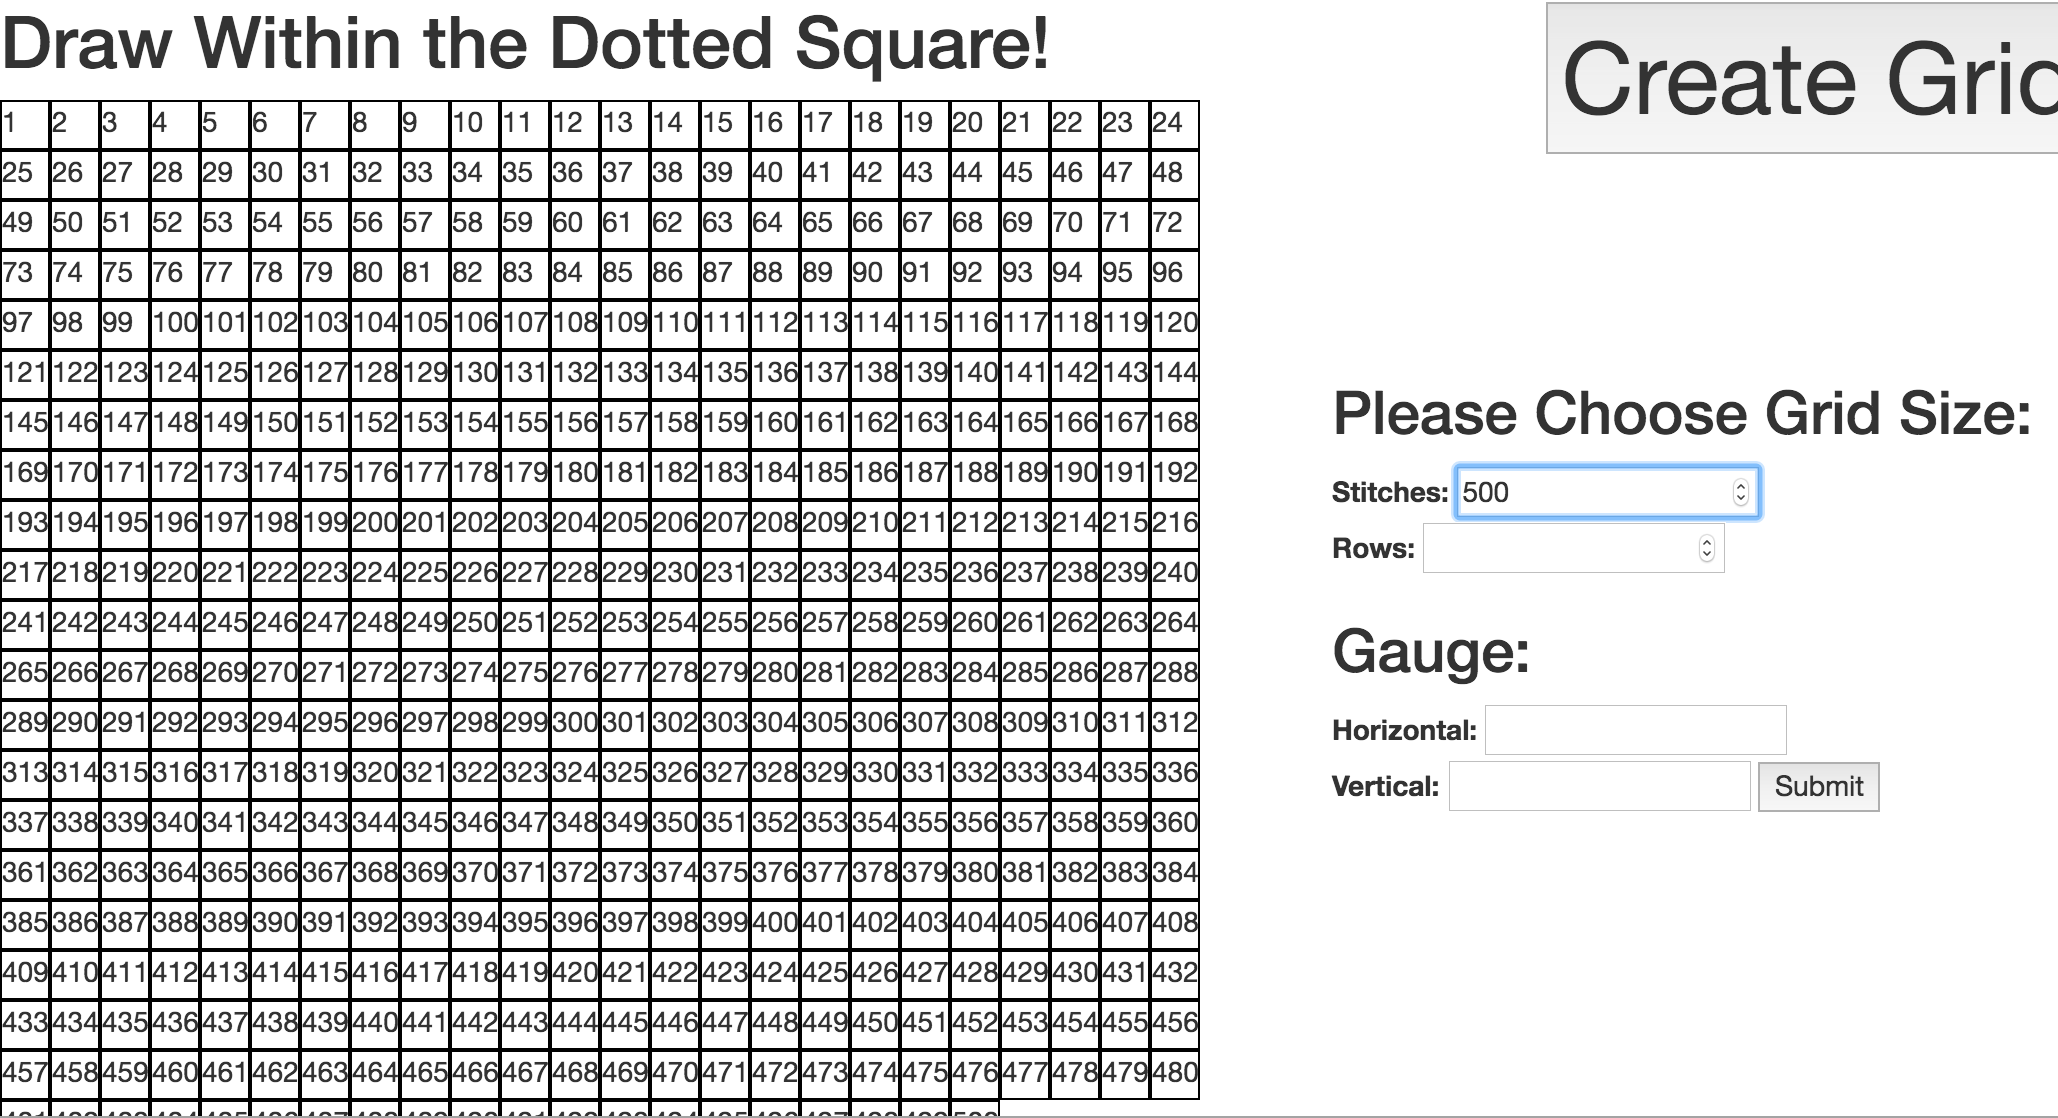
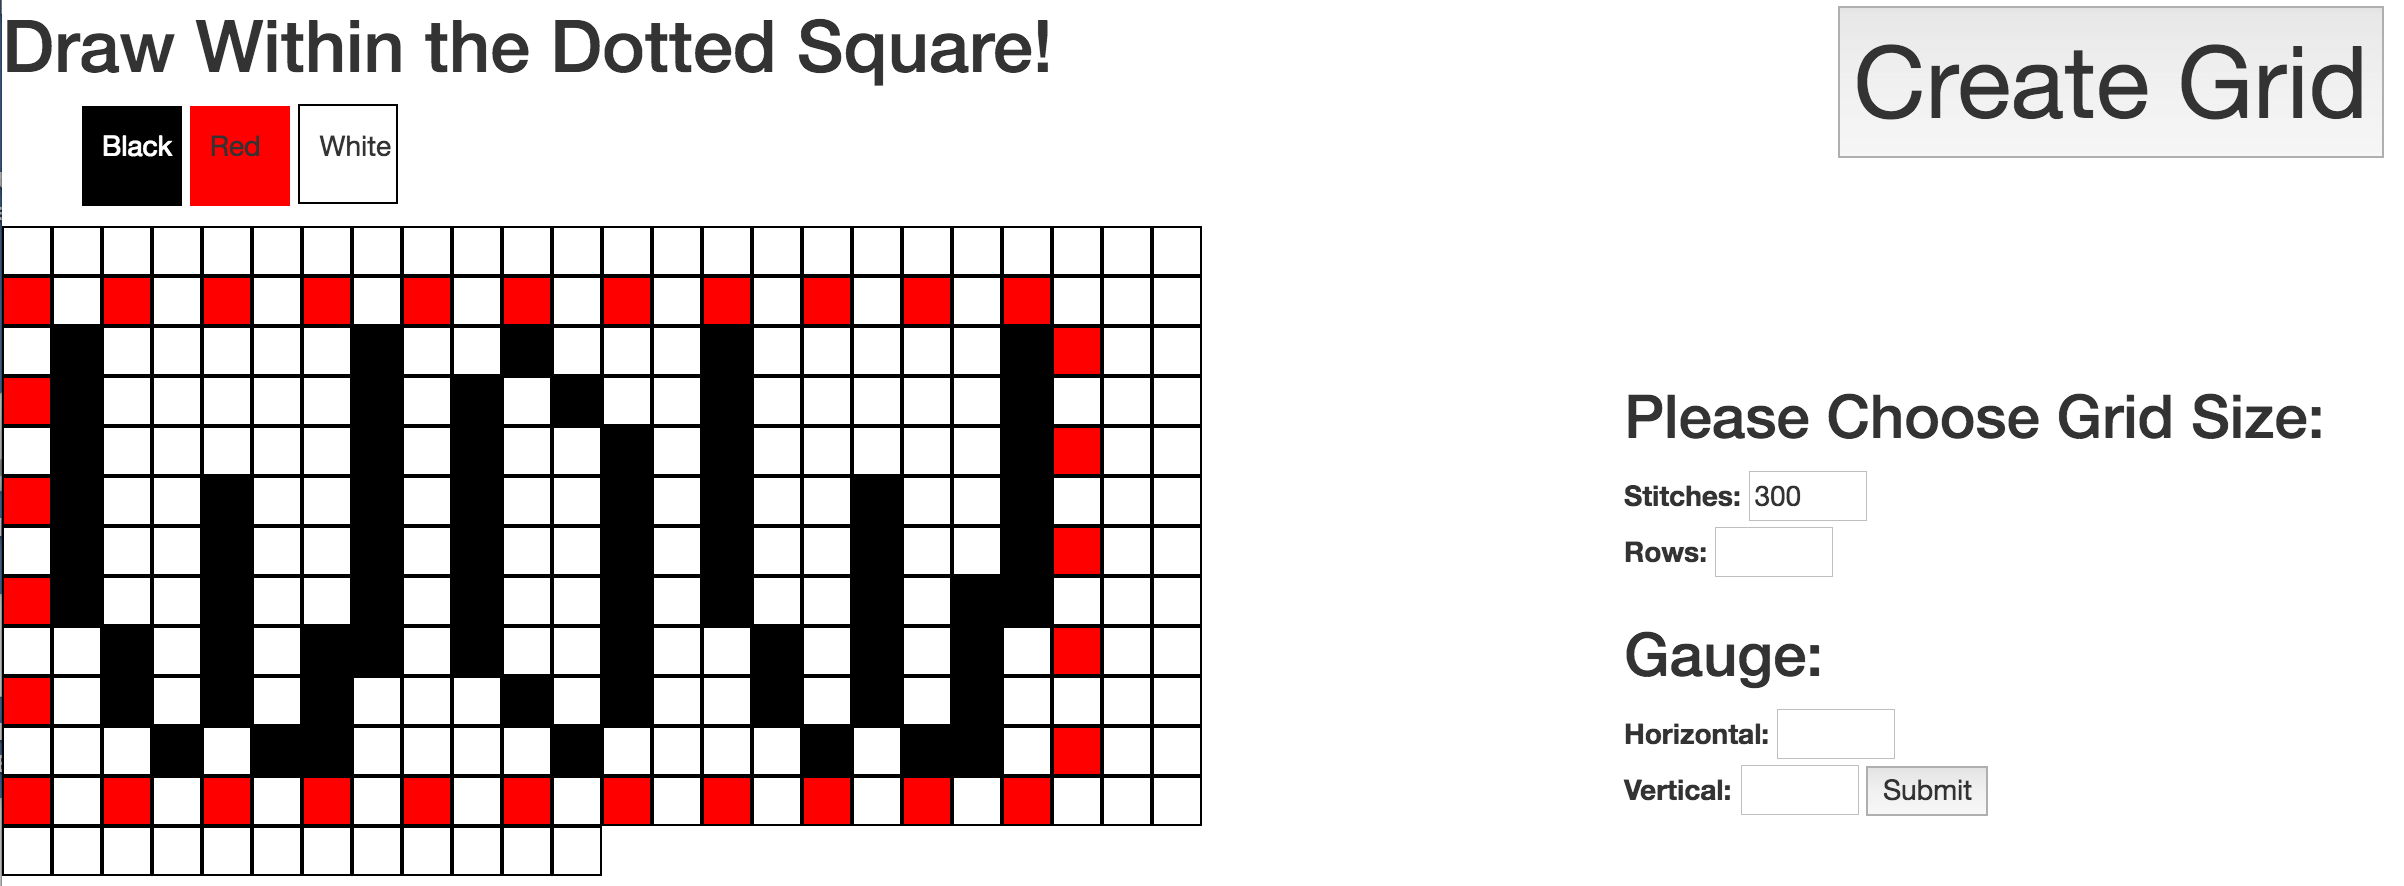
divs change color

diff --git a/server/public/scripts/clientapp.js b/server/public/scripts/clientapp.js
@@ -1,18 +1,10 @@
 $(document).ready(function() {
     console.log('jQuery linked'); // this is really important! :P
 
-    // getData();
     $('#chooseGrid').hide();
+
     // //button listeners
     $('.click4grid').on('click', toggleOptions);
-    // $('#gridCanvas').children().on('click', logPixel);
-
-
-    // $('#gridCanvas').children().click(function() {
-    //     var $id = $(this).attr('id');
-    //     console.log($id);
-
-    // });
 
 
 
@@ -21,78 +13,38 @@ $(document).ready(function() {
     // $('#dataTable').on("click", ".update", updateData);
 }); // end doc ready
 
-function colorGrid(color) {
-    // var color = $('#color').attr('class');
-
-    // check if a color has been selected, if not then black
-    // else if color has been selected, use that color
-    if (color == 'black') {
-        console.log("color black was selected");
-        pickedColor = "black";
-        console.log("new pickedColor: ", pickedColor);
-    } else
-    if (color == "red") {
-        console.log("color red selected");
-        pickedColor = 'red';
-        console.log("new pickedColor: ", pickedColor);
-    } else if (color == "white") {
-        console.log("color white selected");
-        pickedColor = "white";
-        console.log("new pickedColor: ", pickedColor);
-    }
-    return pickedColor;
-}
 
 
-function logPixel(pixel) {
-    // var id = $(this).attr('id');
-    var color = $('.pixel').css('backgroundColor');
-
-    var id = pixel.id;
-    // var color = pixel.style.backgroundColor;
-    console.log("color: ", color);
-    console.log("pixel id: ", id);
-    drawColor(color);
-
-    function drawColor(color) {
-        console.log("drawColor() ready for action");
-
-        // var white = 'rgb(255, 255, 255)';
-        // var red = 'rgb(255, 0, 0)';
-        // var black = 'rgb(0, 0, 0)';
-        // var pickedcolor = '';
-        // var color = $('#color').attr('class');
-        console.log("pickedColor in drawColor: ", pickedColor);
-
-        // check if a color has been selected, if not then black
-        // else if color has been selected, use that color
-        if (pickedColor == color) {
-            console.log("the color has already been written");
-        } else
-        if (color == "red") {
-            console.log("color red selected");
-        } else if (color == "white") {
-            console.log("color white selected");
-        }
-
-        // check if they are pressing down on the mouse..
-        // ..if true, then color background div w/ unique id
-
-    }
-
-}
+//////////////////////////////////////////////////////////////////////////////////////
+//                                                                                  //
+//                                  Variables                                       //
+//                                                                                  //
+//////////////////////////////////////////////////////////////////////////////////////
+var pickedColor = "rgb(0, 0, 0)";
+var gridCanvas = $('#gridCanvas');
 
 
-// shows or hides form to gather grid info
+
+
+//////////////////////////////////////////////////////////////////////////////////////
+//                                                                                  //
+//                     Function which Shows/Hides Grid Form                         //
+//                                                                                  //
+//////////////////////////////////////////////////////////////////////////////////////
 function toggleOptions() {
     $('#chooseGrid').toggle();
     console.log('toggleOptions() triggered');
 
 }
 
-var gridCanvas = $('#gridCanvas');
 
-// captures user custom grid specifications
+
+
+//////////////////////////////////////////////////////////////////////////////////////
+//                                                                                  //
+//                   Function to Capture Custom Grid Specs                          //
+//                                                                                  //
+//////////////////////////////////////////////////////////////////////////////////////
 function submitGridSpecs() {
     console.log('submitGridSpecs() triggered');
     event.preventDefault();
@@ -103,49 +55,94 @@ function submitGridSpecs() {
         rows: $('#gridRows').val(),
         horizontal: $('#horizontalGauge').val(),
         vertical: $('#verticalGauge').val()
-
-        // same as:
-        // sts: $('#gridStitches').val(),
-        // rows: document.getElementById('gridRows').value,
     };
+
     console.log("Grid: ", Grid);
-
-
-    // // jquery method to get value of user inputs 1
-    // var sts = $('#gridStitches').val();
-    // console.log("sts: ", sts); // worked!
-    // var rows = $('#gridRows').val();
-    // console.log("rows: ", rows);
-    // var horizontal = $('#horizontalGauge').val();
-    // console.log("horizontal: ", horizontal);
-    // var vertical = $('#verticalGauge').val();
-    // console.log("vertical: ", vertical);
-
-    // // jQuery method to get values of user input 2
-    // var sts = $('#gridStitches').attr('value');
-    // console.log("sts: ", sts); // no worky :( -- index.html input elements have no 'value' attribute...
-    // var rows = $('#gridRows').attr('value');
-    // var horizontal = $('#horizontalGauge').attr('value');
-    // var vertical = $('#verticalGauge').attr('value');
-
-    // // straight js  method to get values of user input
-    // var sts = document.getElementById('gridStitches').value;
-    // console.log("sts: ", sts); // worked!
-
 
     newGrid(Grid); // must be placed after var assignments
 }
 
-// uses captured data and appends to DOM
+
+
+
+//////////////////////////////////////////////////////////////////////////////////////
+//                                                                                  //
+//                     Function to Append Custom Grid to DOM                        //
+//                                                                                  //
+//////////////////////////////////////////////////////////////////////////////////////
 function newGrid(Grid) {
     console.log('newGrid() triggered');
     console.log("newGrid() sts: ", Grid.sts);
     // draw
     for (i = 1; i <= Grid.sts; i++) {
-        $('#gridCanvas').append("<div class='pixel' id='pixel" + i + "' onclick='logPixel(this)'>" + i + "</div>");
+        $('#gridCanvas').append("<div class='pixel' id='pixel" + i + "' onclick='drawColor(this)'></div>");
         console.log('div created');
     }
     //compare div px to container width and see if you can set col x rows that way?
+}
+
+
+
+
+//////////////////////////////////////////////////////////////////////////////////////
+//                                                                                  //
+//                Function to Choose Color with which to Draw                       //
+//                                                                                  //
+//////////////////////////////////////////////////////////////////////////////////////
+function pickColor(color) {
+    // check if a color has been selected, if not then use black
+    if (color == "black") {
+        console.log("color black was selected");
+        pickedColor = "rgb(0, 0, 0)";
+        console.log("new pickedColor: ", pickedColor);
+
+    } else if (color == "red") {
+        console.log("color red selected");
+        pickedColor = 'rgb(255, 0, 0)';
+        console.log("new pickedColor: ", pickedColor);
+
+    } else if (color == "white") {
+        console.log("color white selected");
+        pickedColor = "rgb(255, 255, 255)";
+        console.log("new pickedColor: ", pickedColor);
+
+    } else {
+        pickedColor = "rgb(0, 0, 0)";
+    }
+    return pickedColor;
+}
+
+
+
+
+//////////////////////////////////////////////////////////////////////////////////////
+//                                                                                  //
+//                Function to Color BG Color of Individual Divs                     //
+//                                                                                  //
+//////////////////////////////////////////////////////////////////////////////////////
+function drawColor(pixel) {
+    console.log("drawColor() ready for action");
+    var color = $('.pixel').css('backgroundColor');
+    var id = pixel.id;
+
+    console.log("color: ", color);
+    console.log("pixel id: ", id);
+    console.log("pickedColor in drawColor: ", pickedColor);
+
+    if (pickedColor == "rgb(255, 255, 255)") {
+        console.log("drawing in color white");
+        $(pixel).css('background-color', 'rgb(255, 255, 255)');
+    } else if (pickedColor == "rgb(0, 0, 0)") {
+        console.log("drawing in color black");
+        $(pixel).css('background-color', 'rgb(0, 0, 0)');
+
+    } else if (pickedColor == "rgb(255, 0, 0)") {
+        console.log("drawing in color red");
+        // console.log("this: ", this); // no bueno
+        $(pixel).css('background-color', 'rgb(255, 0, 0)');
+    }
+
+
 }
 
 

diff --git a/server/public/views/index.html b/server/public/views/index.html
@@ -46,9 +46,9 @@
     </form>
 
     <ul id="colorPalette">
-        <li id="color" class="black" onclick="colorGrid('black')">Black</li>
-        <li id="color" class="red" onclick="colorGrid('red')">Red</li>
-        <li id="color" class="white" onclick="colorGrid('white')">White</li>
+        <li id="color" class="black" onclick="pickColor('black')">Black</li>
+        <li id="color" class="red" onclick="pickColor('red')">Red</li>
+        <li id="color" class="white" onclick="pickColor('white')">White</li>
     </ul>
 
     <div id="gridCanvas">

diff --git a/server/public/styles/style.css b/server/public/styles/style.css
@@ -40,16 +40,17 @@ canvas {
 }*/
 
 .black {
-    background-color: black;
+    background-color: rgb(0, 0, 0);
     color: white;
 }
 
 .red {
-    background-color: red;
+    background-color: rgb(255, 0, 0);
 }
 
 .white {
     border: 1px solid black;
+    background-color: rgb(255, 255, 255);
 }
 
 #color {
